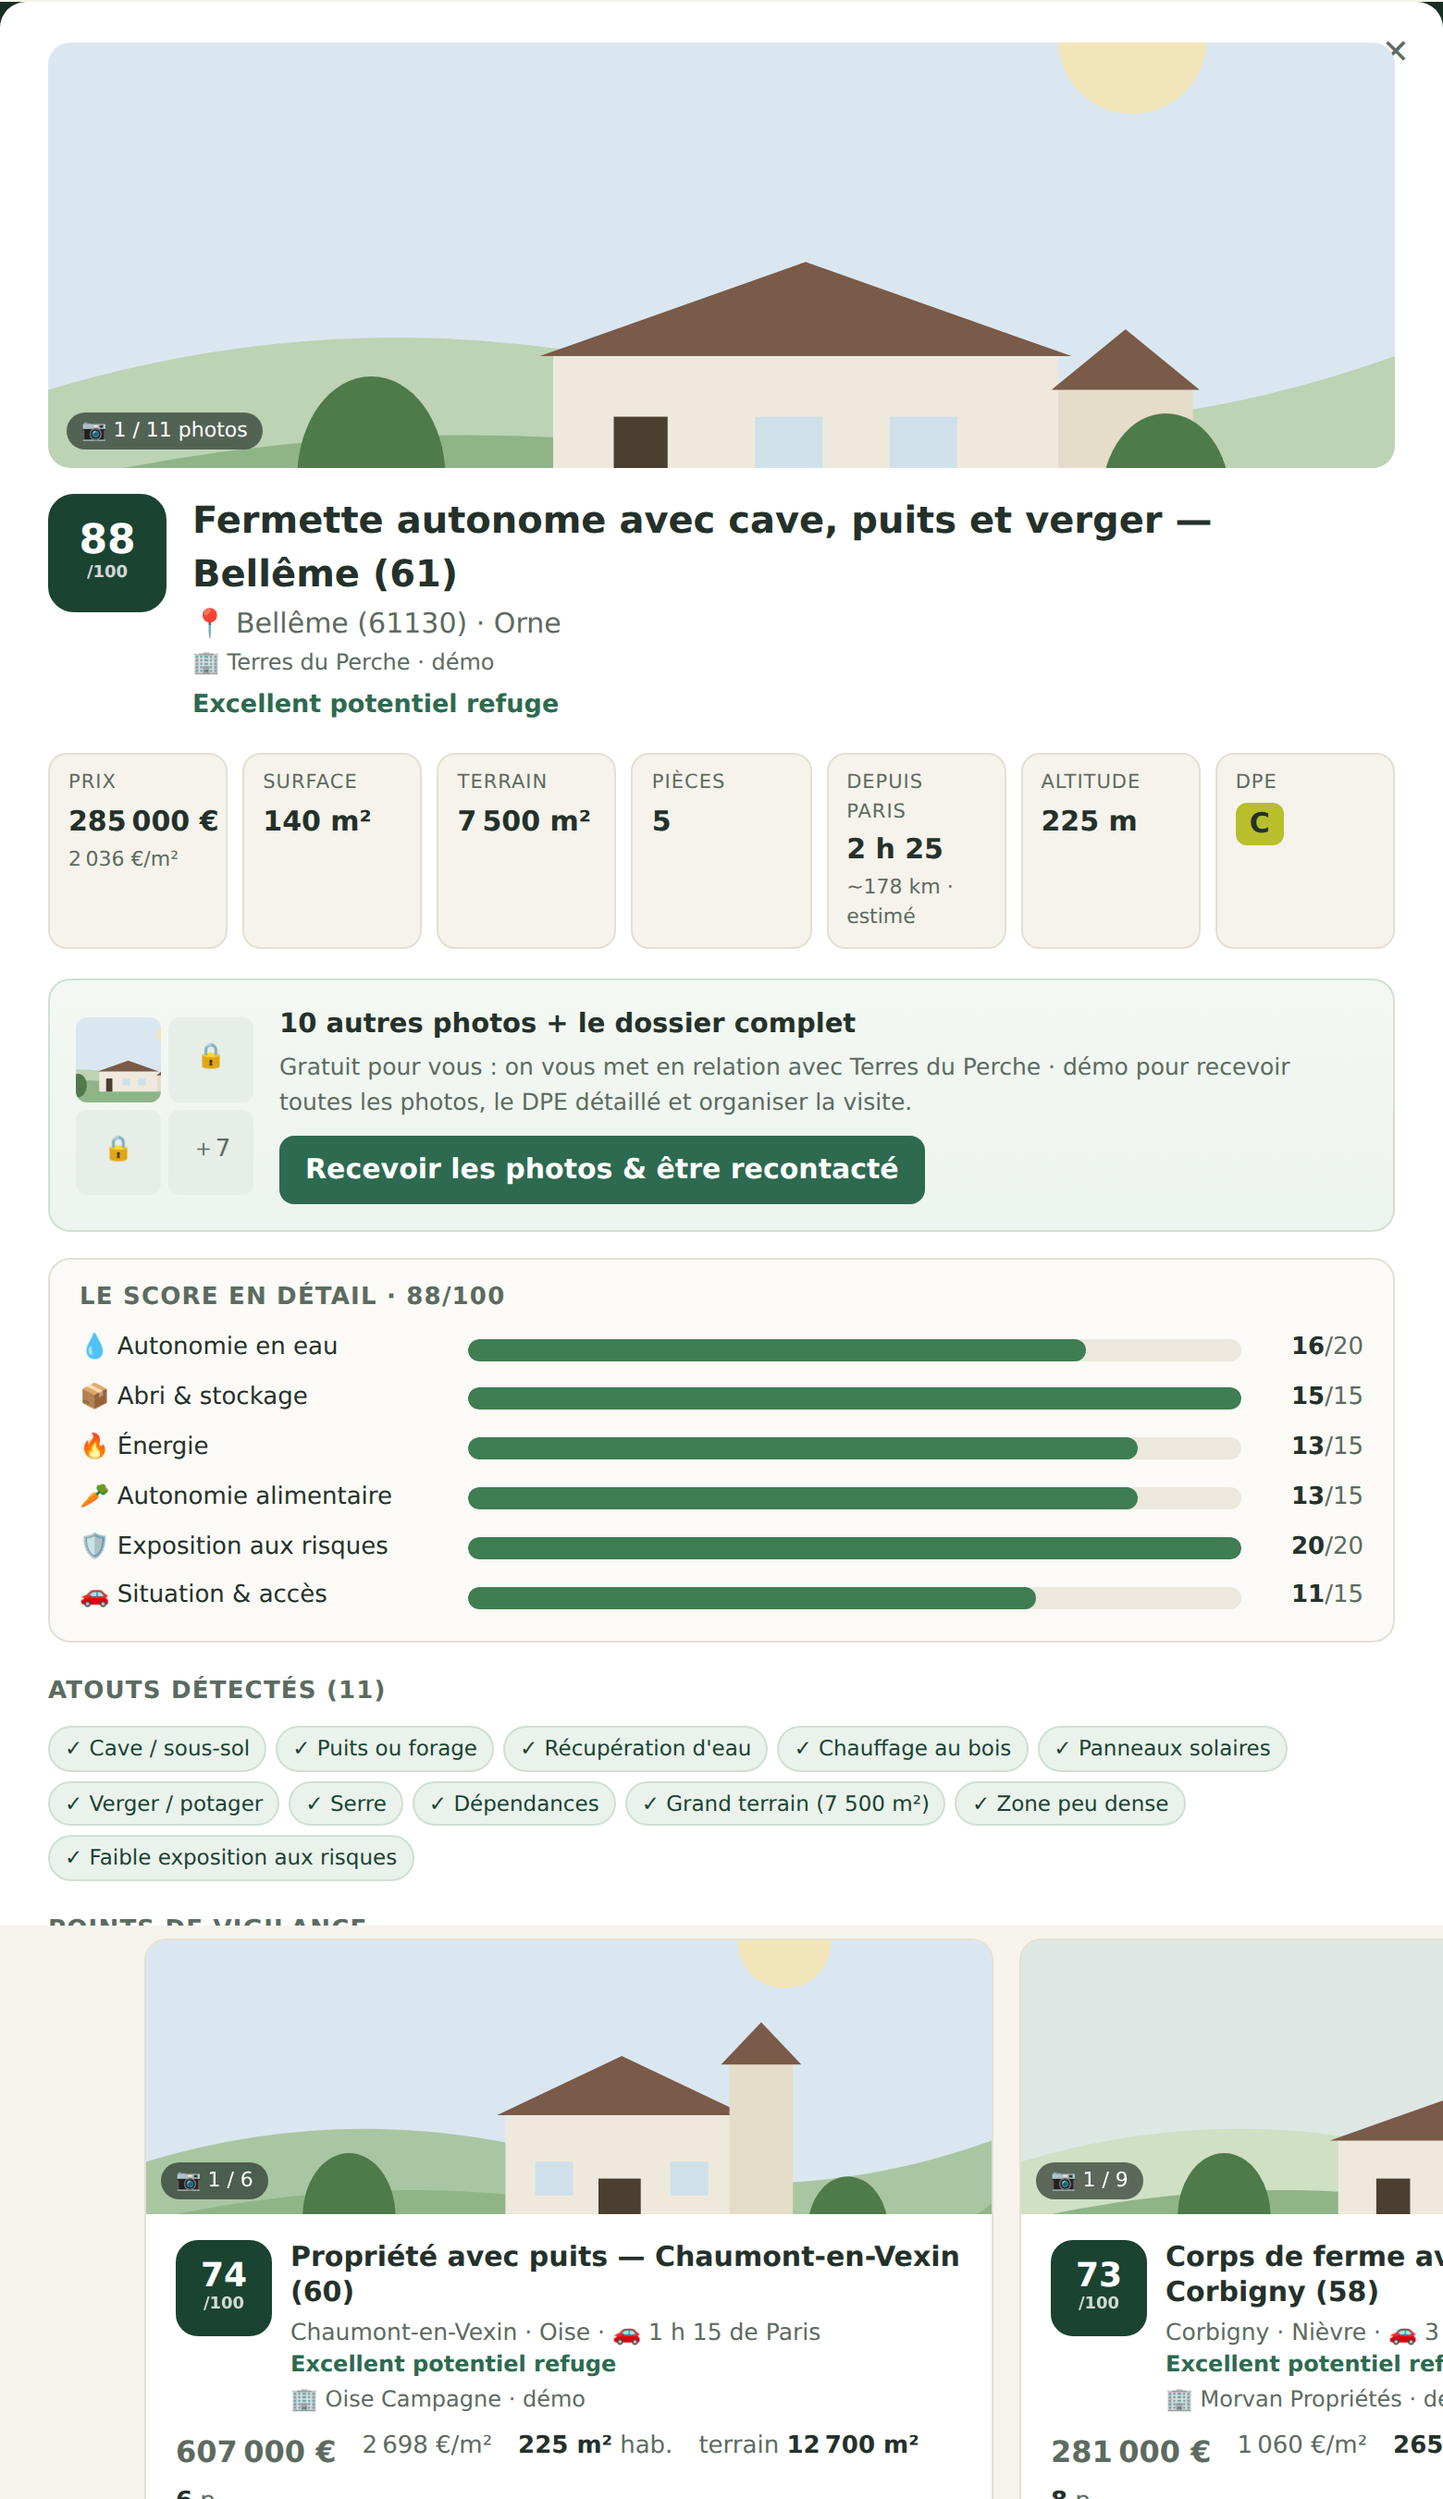
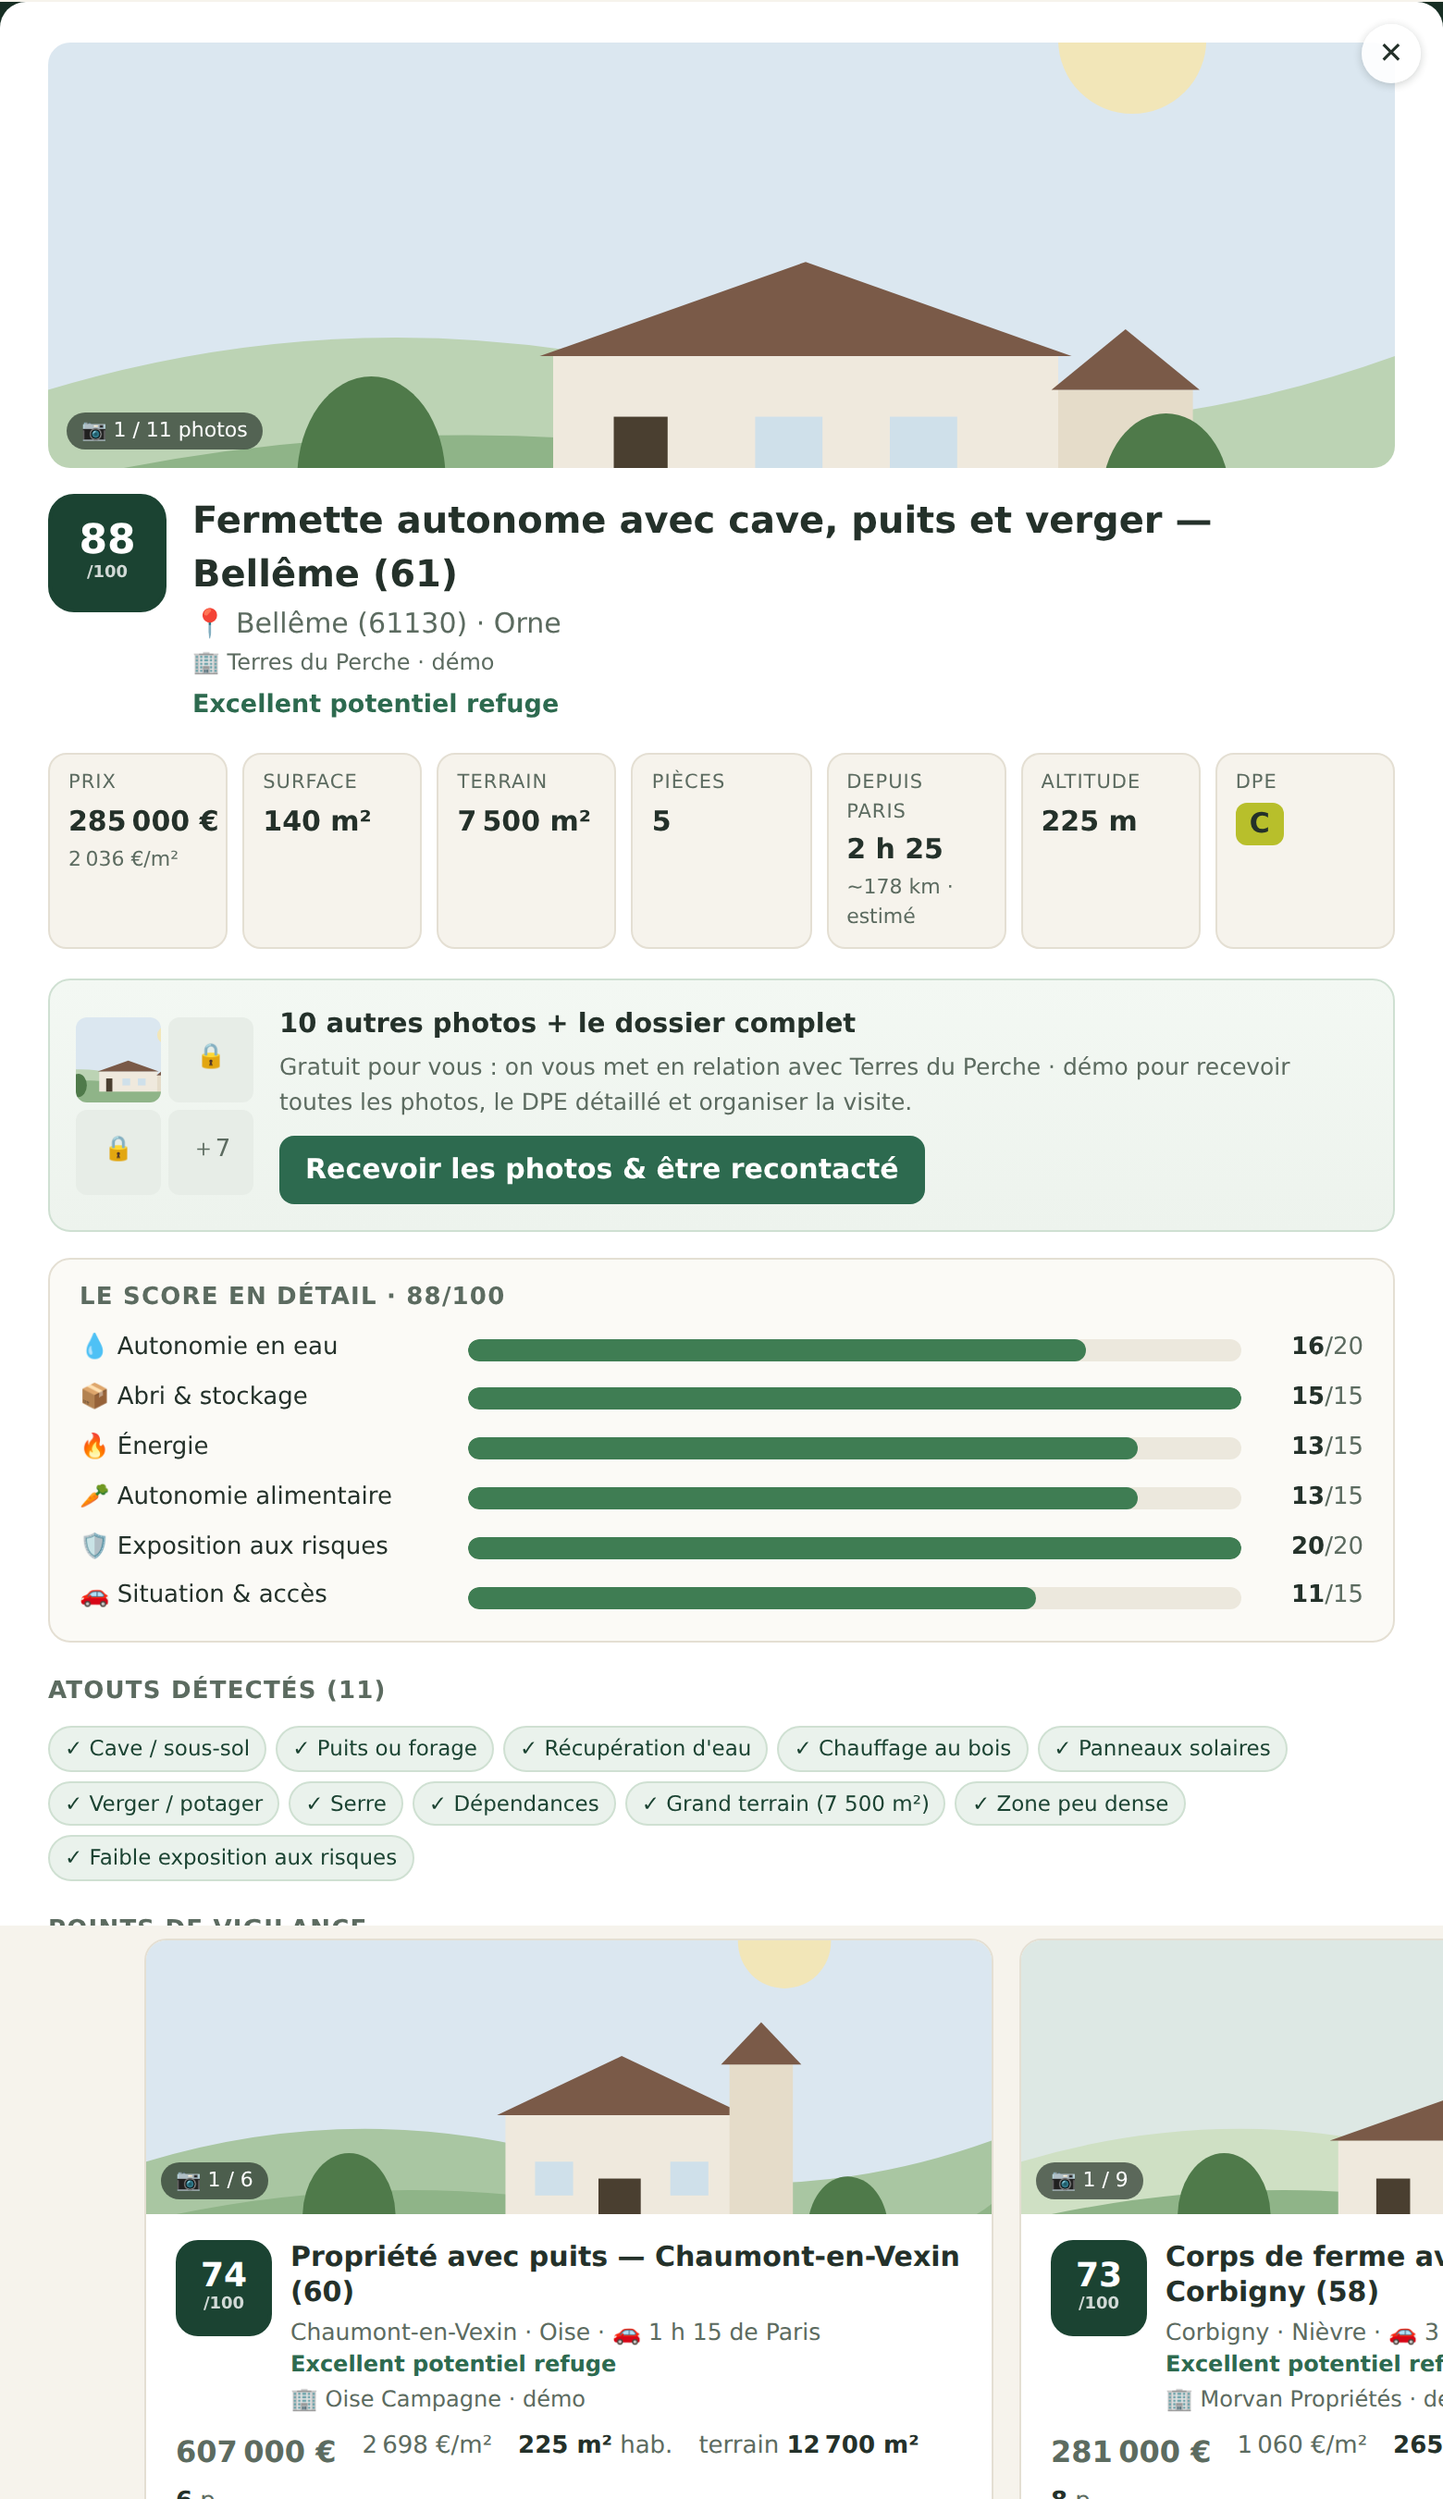
UX/UI responsive : mobile repensé + polices d'expert
Responsive (mobile) :
- filtres repliables sur mobile (bouton « Filtres & tri ») : l'utilisateur
  voit d'abord les biens, la carte et les terroirs ;
- sidebar non collante sur mobile (corrige aussi un chevauchement au clic) ;
- liste en une colonne < 560px, tuiles de stats en 3 colonnes, carte 300px,
  marges et titres ajustés, garde anti-débordement horizontal.

Touches UX :
- bouton fermer de la fiche toujours visible (pastille blanche) au-dessus
  de la photo ;
- la carte se recentre sur le terroir sélectionné.

Aucune régression desktop (22 tests verts).

Claude-Session: https://claude.ai/code/session_012nTQBPGzw5GcM6mNUmDeCP

diff --git a/app/static/style.css b/app/static/style.css
@@ -150,10 +150,12 @@ body {
   padding: 22px 26px 24px; position: relative; margin-bottom: 4vh;
 }
 .fermer {
-  position: absolute; top: 10px; right: 12px; border: none; background: none;
-  font-size: 18px; cursor: pointer; color: var(--encre-2); padding: 6px;
+  position: absolute; top: 12px; right: 12px; border: none; z-index: 3;
+  width: 32px; height: 32px; border-radius: 50%; background: rgba(255, 255, 255, .9);
+  box-shadow: 0 1px 5px rgba(20, 30, 24, .2); font-size: 16px; cursor: pointer;
+  color: var(--encre); display: flex; align-items: center; justify-content: center; padding: 0;
 }
-.fermer:hover { color: var(--encre); }
+.fermer:hover { background: #fff; }
 .modale h2 { margin: 0 0 2px; font-size: 20px; padding-right: 30px; }
 .modale .lieu { color: var(--encre-2); }
 .modale h4 { margin: 18px 0 8px; font-size: 13px; text-transform: uppercase; letter-spacing: .6px; color: var(--encre-2); }
@@ -280,3 +282,42 @@ body {
 .mer-form { display: flex; gap: 6px; margin-top: 6px; }
 .mer-form input { flex: 1; padding: 8px; border: 1px solid var(--bordure); border-radius: 8px; font: inherit; }
 .mer-note { font-size: 12px; color: var(--encre-2); margin: 8px 0 0; }
+
+/* ---------- responsive / mobile ---------- */
+body { overflow-x: hidden; }
+.filtres-tete { display: flex; align-items: center; justify-content: space-between; gap: 10px; }
+.filtres-toggle {
+  display: none; border: 1px solid var(--bordure); background: var(--fond);
+  color: var(--encre); font: inherit; font-size: 13px; font-weight: 600;
+  padding: 6px 12px; border-radius: 8px; cursor: pointer;
+}
+.filtres-toggle:hover { border-color: var(--accent); color: var(--accent); }
+
+@media (max-width: 900px) {
+  .agencement { padding: 0 14px; margin: 12px auto; gap: 12px; }
+  .entete-int { padding: 12px 14px; }
+  .slogan { font-size: 12px; }
+  .filtres { position: static; padding: 12px 14px; }
+  .filtres h2 { margin: 0; }
+  .filtres-toggle { display: inline-flex; }
+  .filtres.replie .filtres-corps { display: none; }
+  .filtres-corps { margin-top: 12px; }
+  #carte { height: 300px; }
+  .terroirs-bloc { margin-top: 12px; }
+}
+
+@media (max-width: 560px) {
+  .marque { font-size: 20px; }
+  .liste { grid-template-columns: 1fr; }
+  .stats { grid-template-columns: repeat(3, 1fr); }
+  .stat .valeur { font-size: 14px; white-space: normal; }
+  .barre-resultats { gap: 6px; }
+  .note-estimation { font-size: 11px; }
+  .modale { padding: 18px 16px 22px; border-radius: 12px; }
+  .modale h2 { font-size: 18px; }
+  .photo-grande { height: 190px; }
+  .mise-en-relation { padding: 12px; }
+  .fiche-entete { gap: 10px; }
+  .score-jeton.grand { width: 54px; height: 54px; font-size: 19px; }
+  .terroir { padding: 6px 10px; }
+}

diff --git a/app/static/app.js b/app/static/app.js
@@ -170,6 +170,7 @@ function reinitialiser() {
   $("#f-agence").value = "";
   $("#f-tri").value = "score";
   etat.region = null;
+  etat.cadre = false;
   document.querySelectorAll(".atouts input").forEach((c) => (c.checked = false));
   majTerroirs();
   majAffichagesFiltres();
@@ -467,6 +468,7 @@ $("#terroirs").addEventListener("click", (ev) => {
   const b = ev.target.closest(".terroir");
   if (!b) return;
   etat.region = etat.region === b.dataset.region ? null : b.dataset.region;
+  etat.cadre = false;  // recentrer la carte sur le terroir choisi
   majTerroirs();
   rafraichir();
 });
@@ -488,5 +490,19 @@ document.addEventListener("click", (ev) => {
 $("#modale-fermer").addEventListener("click", fermerFiche);
 $("#voile").addEventListener("click", (ev) => { if (ev.target === $("#voile")) fermerFiche(); });
 document.addEventListener("keydown", (ev) => { if (ev.key === "Escape") fermerFiche(); });
+
+/* filtres repliables sur mobile (l'utilisateur voit d'abord les biens) */
+const filtresToggle = $("#filtres-toggle");
+if (filtresToggle) {
+  const petit = () => window.matchMedia("(max-width: 900px)").matches;
+  if (petit()) $(".filtres").classList.add("replie");
+  const syncToggle = () =>
+    filtresToggle.setAttribute("aria-expanded", String(!$(".filtres").classList.contains("replie")));
+  syncToggle();
+  filtresToggle.addEventListener("click", () => {
+    $(".filtres").classList.toggle("replie");
+    syncToggle();
+  });
+}
 
 initialiser();

diff --git a/app/static/index.html b/app/static/index.html
@@ -23,7 +23,12 @@
 <main class="agencement">
 
   <aside class="filtres" aria-label="Filtres de recherche">
-    <h2>Affiner la recherche</h2>
+    <div class="filtres-tete">
+      <h2>Affiner la recherche</h2>
+      <button class="filtres-toggle" id="filtres-toggle" type="button"
+              aria-controls="filtres-corps" aria-expanded="true">Filtres &amp; tri ▾</button>
+    </div>
+    <div class="filtres-corps" id="filtres-corps">
 
     <label class="champ">
       <span>Budget maximum <output id="aff-prix">tous prix</output></span>
@@ -86,6 +91,7 @@
       <div><span class="pastille n3"></span> 55–69 · bon potentiel</div>
       <div><span class="pastille n2"></span> 40–54 · potentiel moyen</div>
       <div><span class="pastille n1"></span> 0–39 · potentiel limité</div>
+    </div>
     </div>
   </aside>
 
